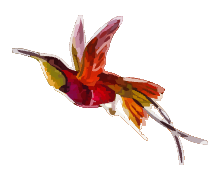
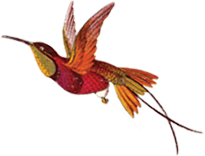
Add: Beijaflor drawer

Changed region(s): [[0.0, 0.0, 0.9951, 1.0]]

diff --git a/src/components/ChaVivoLogo.tsx b/src/components/ChaVivoLogo.tsx
@@ -28,9 +28,8 @@ export default function ChaVivoLogo(props: ChaVivoLogoProps) {
     >
       <Link to="home">
         <img
-          src="https://www.chavivo.com.br/site/wp-content/themes/chavivo/assets/img/logo-cha-vivo.png"
+          src="Beijaflor.png"
           style={{
-            visibility: isCurrentPath("/home") ? "hidden" : "visible",
             height: props.height || "auto",
             width: props.isDesktop ? getLogoWidth() : "auto",
           }}

diff --git a/src/Router.tsx b/src/Router.tsx
@@ -15,7 +15,7 @@ import App from "./App";
 import theme from "./theme";
 import { Button, ListItem, Stack } from "@mui/material";
 import Galeria from "./components/Galeria";
-import Beijaflor from "/beijaflor.png";
+import Beijaflor from "/Beijaflor.png";
 import { useState } from "react";
 
 export interface RouteDefinition {
